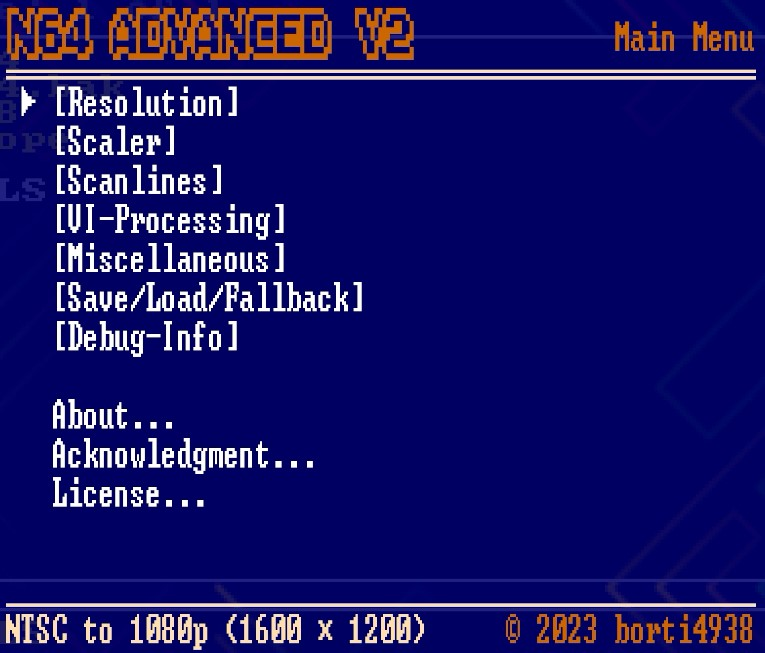
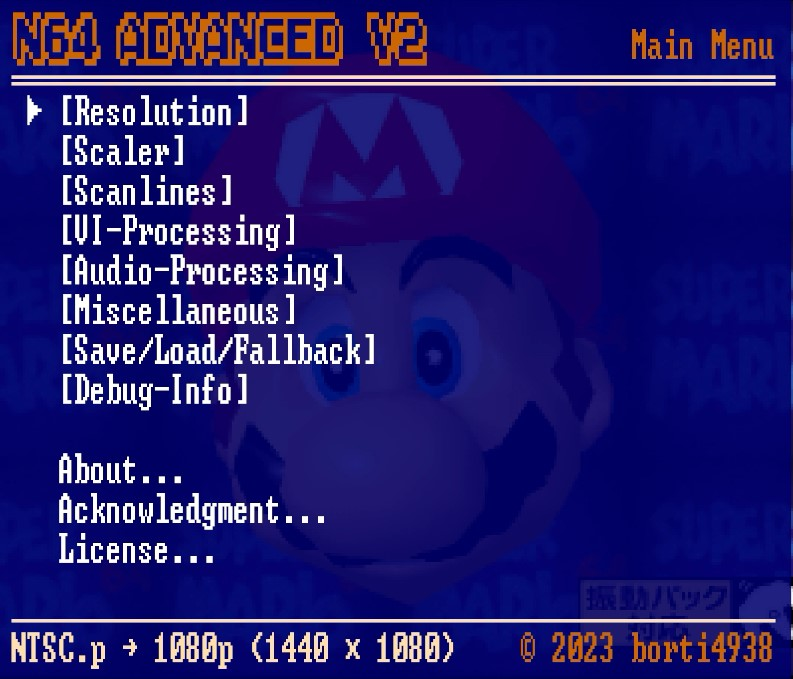
Update readme

diff --git a/README.md b/README.md
@@ -34,8 +34,10 @@ The menu always open in the top level, where you have following options availabl
   Scanlines settings (not available in 240p/288p mode)
 - **\[VI-Processing\]**  
   Some video interface processing stuff other than resolution and scaling
+- **\[Audio-Processing\]**  
+  Some audio interface processing stuff
 - **\[Miscellaneous\]**  
-  Audio settings, in-game routines settings
+  In-game routines settings, reset behavior, and so on
 - **\[Save/Load/Fallback\]**  
   Save your current settings, load from settings or defaults
 - **\[Debug-Info\]**  
@@ -64,8 +66,10 @@ An empty default value means that this value is not affected by loading defaults
 
 #### Resolution
 
-Any change on the configuration in this menu needs you to confirm the new setting.
+Any change on the configuration in this menu needs you to confirm the new setting if applied to current input mode.
 If you do not do so within a few seconds, the setting will switch back to the previous one.
+Configuration changes on non-native input mode (i.e. NTSC while running a PAL game and vice versa) are directly applied without confirmation.
+Only change something here if you are sure what you are doing.
 
 | Entry | Default | Description |
 |:------|:--------|:------------|
@@ -148,22 +152,29 @@ If you do not do so within a few seconds, the setting will switch back to the pr
 \[11\] _LowRes.-DeBlur_ applies only for progressive inputs (i.e. 240p/288p content). This improves the overall image quality if the games runs in 320x240 / 320x288. However it decreases image quality if the game uses 640 horizontal pixel.  
 \[12\] 21bit -> 7bit each color as provided by N64. 16bit -> 5bit for red and blue and 6bit for green.
 
+#### Audio-Processing
+
+| Entry | Default | Description |
+|:------|:--------|:------------|
+| **Filter Options - Bypass filter** | Off | Bypasses the reconstruction audio filter. Only use this option if you are facing any issues with the fillter enabled. |
+| **Output Settings - Mute audio** | Off | Mutes output audio |
+| **Output Settings - Swap L/R** | Off | Swaps left and right audio channel |
+| **Audio settings - output gain** | 0dB | Amplifies the audio signal after the audio filter. Saturation may appear. |
+| **S/PDIF support - Enabled** | Off | Enables the S/PDIF audio output. |
+
 #### Miscellaneous
 
 | Entry | Default | Description |
 |:------|:--------|:------------|
-| **Audio settings - Swap L/R** | Off | Swaps left and right audio channel |
-| **Audio settings - Bypass filter** | Off | Bypasses the reconstruction audio filter. Only use this option if you are facing any issues with the fillter enabled. |
-| **Audio settings - Post filter gain** | 0dB | Amplifies the audio signal after the audio filter. Saturation may appear. |
-| **Audio settings - S/PDIF enabled** | Off | Enables the S/PDIF audio output. |
 | **Controller routines - Reset** | On | Enables _reset via controller_<br>- Button combination: **Start + Z + R + A + B** |
 | **Controller routines - VI-DeBlur** | Off | Allows switching _low. res. deblur_ (see description above) **on** and **off** via controller<br>- Button combination **On**: **Start + Z + R + C-ri**<br>- Button combination **Off**: **Start + Z + R + C-le** |
 | **Controller routines - 16bit mode** | Off | Allows switching _16bit mode_ (see description above) **on** and **off** via controller<br>- Button combination **On**: **Start + Z + R + C-down**<br>- Button combination **Off**: **Start + Z + R + C-up** |
 | **Reset masking** | VI + Audio | User can opt to not reset video interface pipeline (**VI pipeline**) and/or **Audio** processing if the console is being reset |
-| **Swap LED** | Off | Swap use of LED D1 and D2 (usually D1 is NOK / red and D2 is OK / green). Useful if D1 and D2 have opposite color on hardware. |
-| **Unlock lucky 1440p** \[12\] | _Off_ | Unlocks 1440p resolution in the _resolution_ configuration screen |
+| **Menu variations - Swap R/G-LED** | Off | Swap use of LED D1 and D2 (usually D1 is NOK / red and D2 is OK / green). Useful if D1 and D2 have opposite color on hardware. |
+| **Menu variations - Boot to debug** | Debug at no vi-input | If no video input is being detected at the N64 video interface input, the N64Adv2 boots into _Debug-Info_ screen.<br> This behavior can be switched off if setting is at _Normal boot_. |
+| **Unlock lucky 1440p** \[13\] | _Off_ | Unlocks 1440p resolution in the _resolution_ configuration screen |
 
-\[12\] 1440p resolution runs over the maximum frequency specified for the FPGA and for the video transmitter IC. Therefore, it is intended that a) the setting is not in the resolution menu and b) 1440p must be unlocked! 
+\[13\] 1440p resolution runs over the maximum frequency specified for the FPGA and for the video transmitter IC. Therefore, it is intended that a) the setting is not in the resolution menu and b) 1440p must be unlocked! 
 
 #### Save/Load/Fallback
 
@@ -171,14 +182,13 @@ If you do not do so within a few seconds, the setting will switch back to the pr
 |:------|:--------|:------------|
 | **Save - Autosave** | | Saves your current configuration every time you close the menu if enabled |
 | **Save - Configuration now** | | Saves your current configuration |
-| **Load - Last Configuration** | | Loads your last saved configuration |
-| **Load - 480p Defaults** | | Loads 480p/576p defaulted configuration |
-| **Load - 1080p Defaults** | | Loads 1080p defaulted configuration |
+| **Load - Last configuration** | | Loads your last saved configuration |
+| **Load - Fallback defaults** | | Loads fallback configuration |
 | **Copy - Direction** | NTSC->PAL | Determines which config is copied _from_->_to_ |
-| **Copy - Copy config now** | | Copies the actual config. \[13\] | 
+| **Copy - Copy config now** | | Copies the actual config. \[14\] | 
 | **Fallback config** | 1080p | Determines the fallback defaults (240p, 480p or 1080p) |
 
-\[13\] A copy from _NTSC->PAL_ also enables **Use PAL in 240p box** option. 240p/288p configurations stay unaffected.
+\[14\] A copy from _NTSC->PAL_ also enables **Use PAL in 240p box** option. 240p/288p configurations stay unaffected.
 
 Note that all unsaved configuration entries in the menu are shown in yellow color.
 As soon as the configuration is saved, every entry should appear in white or grey if unavailable.
@@ -195,9 +205,9 @@ As soon as the configuration is saved, every entry should appear in white or gre
 | **Pin check - VI** | Shows pin check results for video interface<br>- Sync: Data sync signal<br>- Data: data lines D6 down to D0 (left to right) |
 | **Pin check - Audio** | Shows pin check results for audio interface<br>- ALRC: audio left/right clock<br>- ASD: audio serial data<br>- ASC: audio serial clock |
 | **Re-sync VI pipeline**| Resets the video pipeline and resyncs input (i.e. video from N64) and output video<br>Might be useful in _frame locked mode_ if number of buffered scanlines does not stay constant, i.e. increase or decrease constantly |
-| **Lock menu (ctrl. test)**| Locks menu inputs for testing your controller.<br>Value of the controller test \[14\] is shown in the bottom line. |
+| **Lock menu (ctrl. test)**| Locks menu inputs for testing your controller.<br>Value of the controller test \[15\] is shown in the bottom line. |
 
-\[14\] Section [Work with the Debug-Info Page](https://github.com/borti4938/n64adv2_fw#work-with-the-debug-info-page) shows how to interpret those values
+\[15\] Section [Work with the Debug-Info Page](https://github.com/borti4938/n64adv2_fw#work-with-the-debug-info-page) shows how to interpret those values
 
 ### Default Configuration
 
